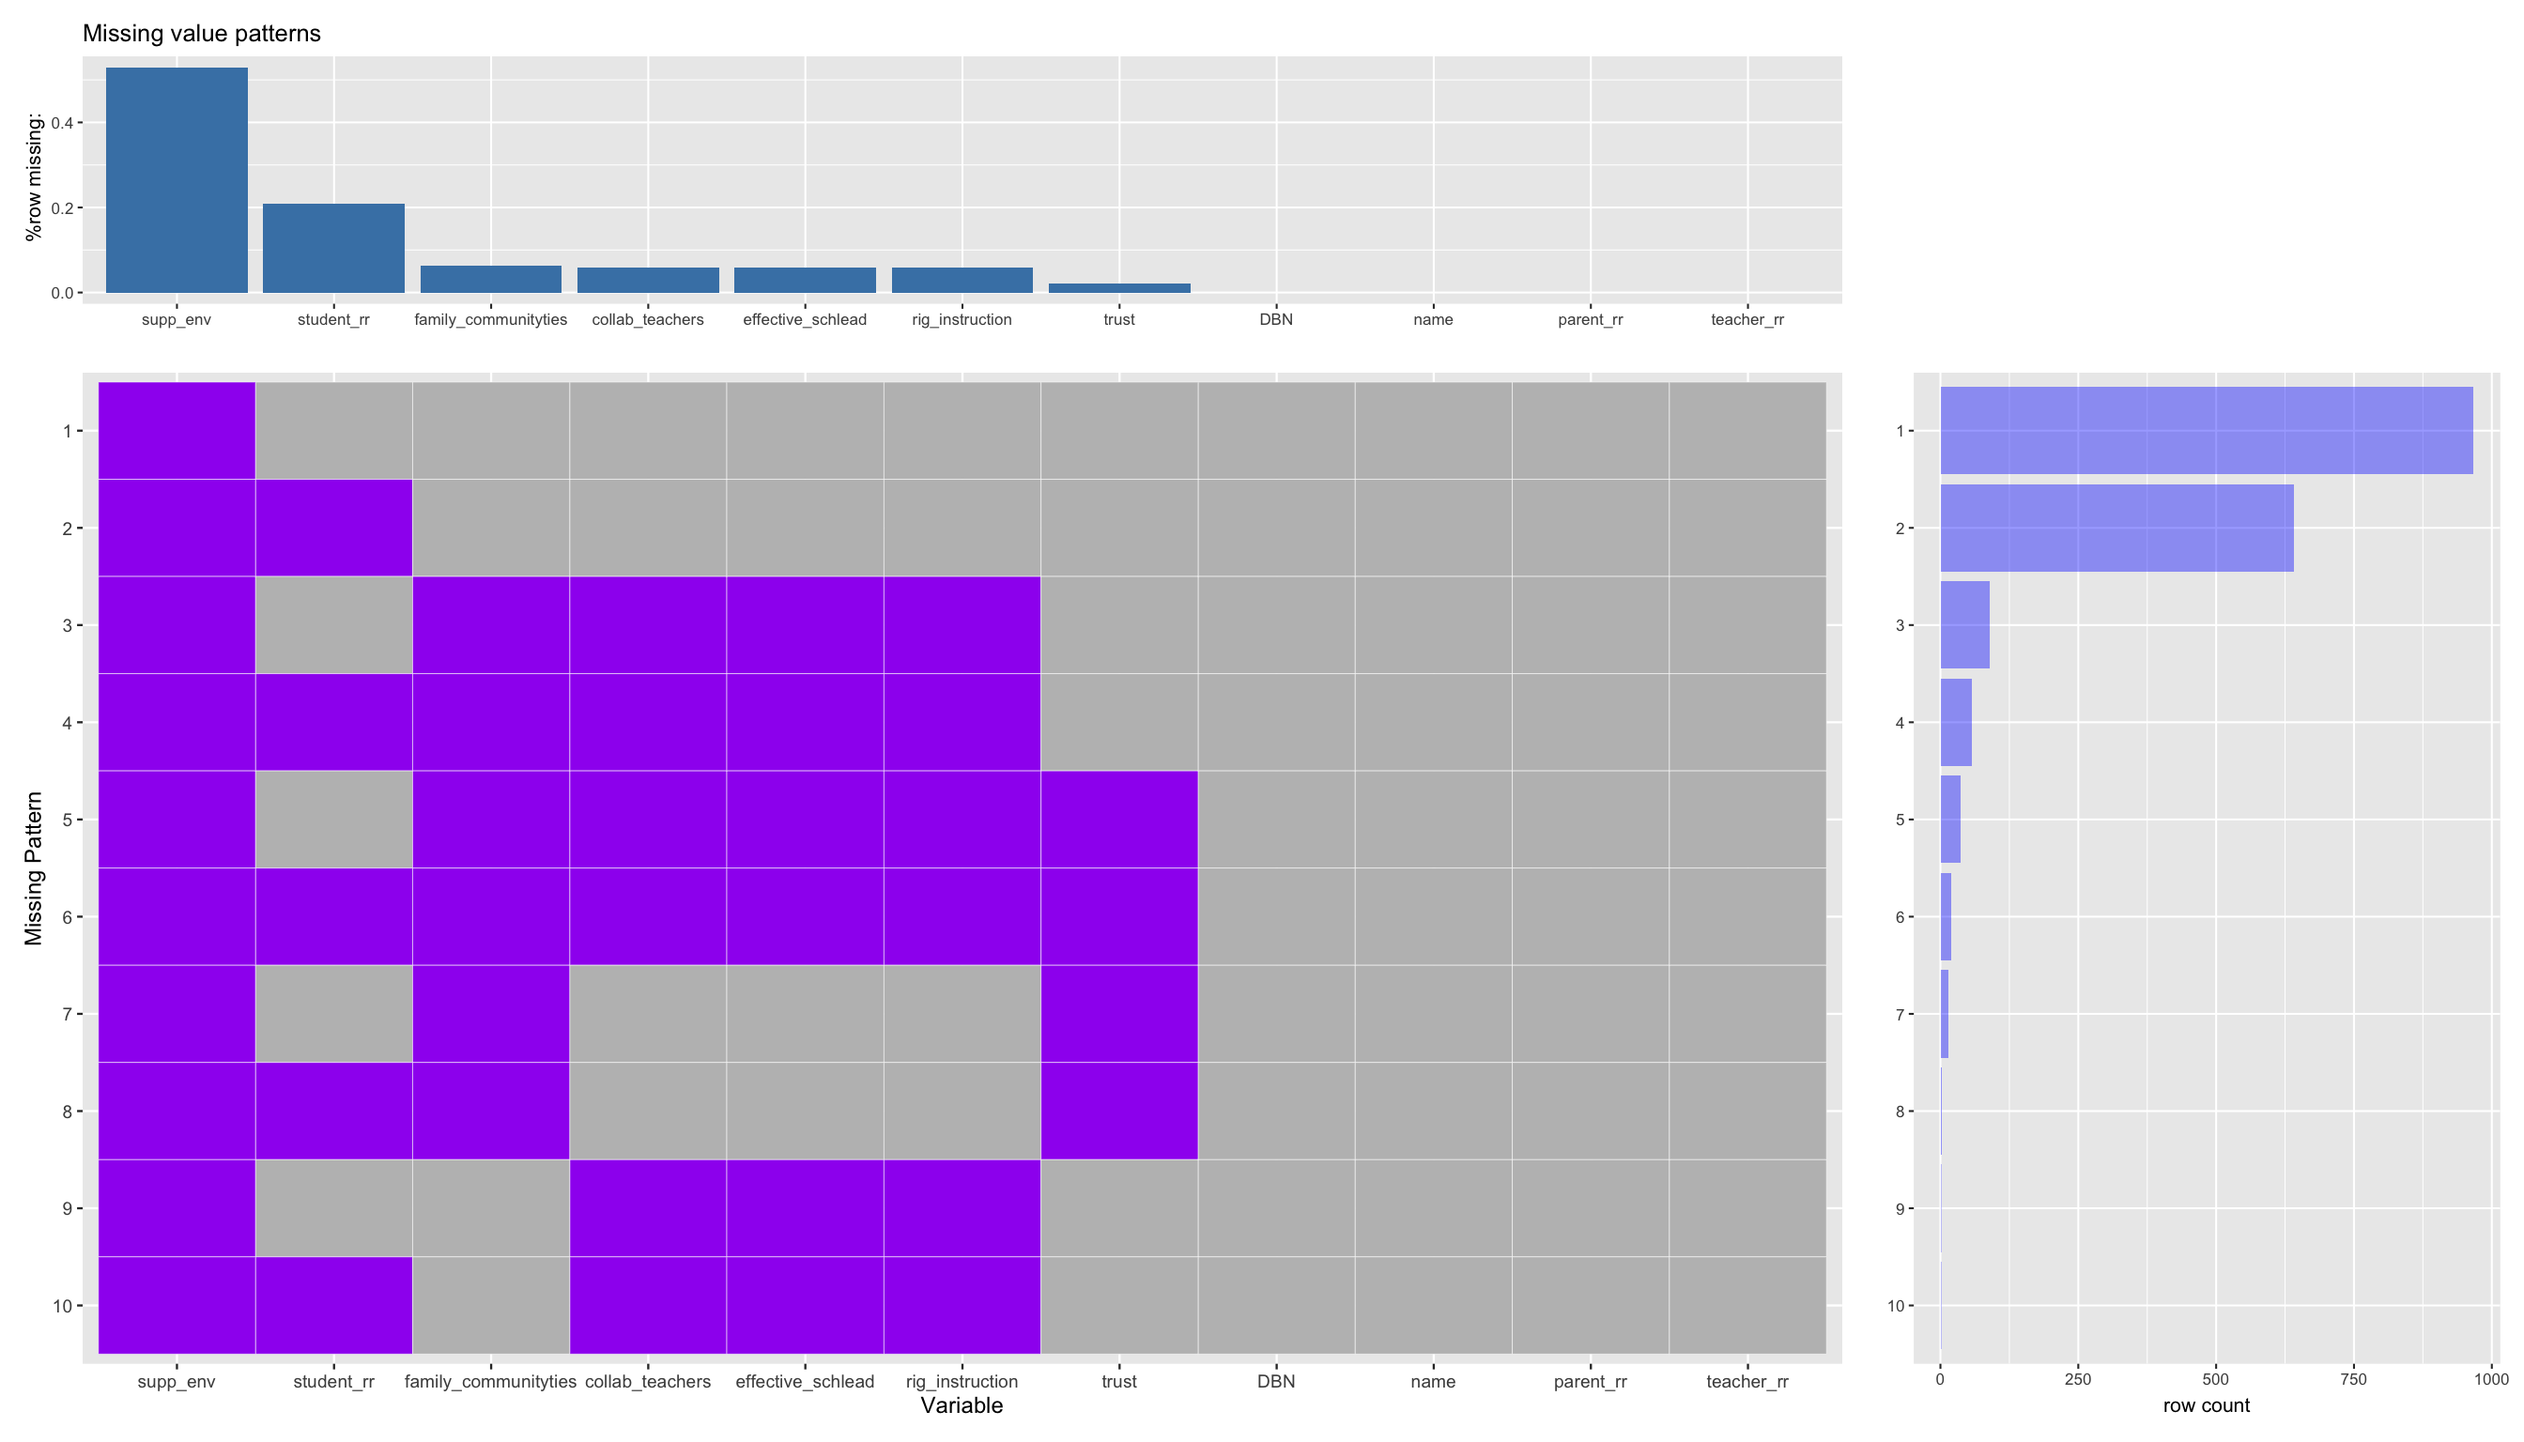
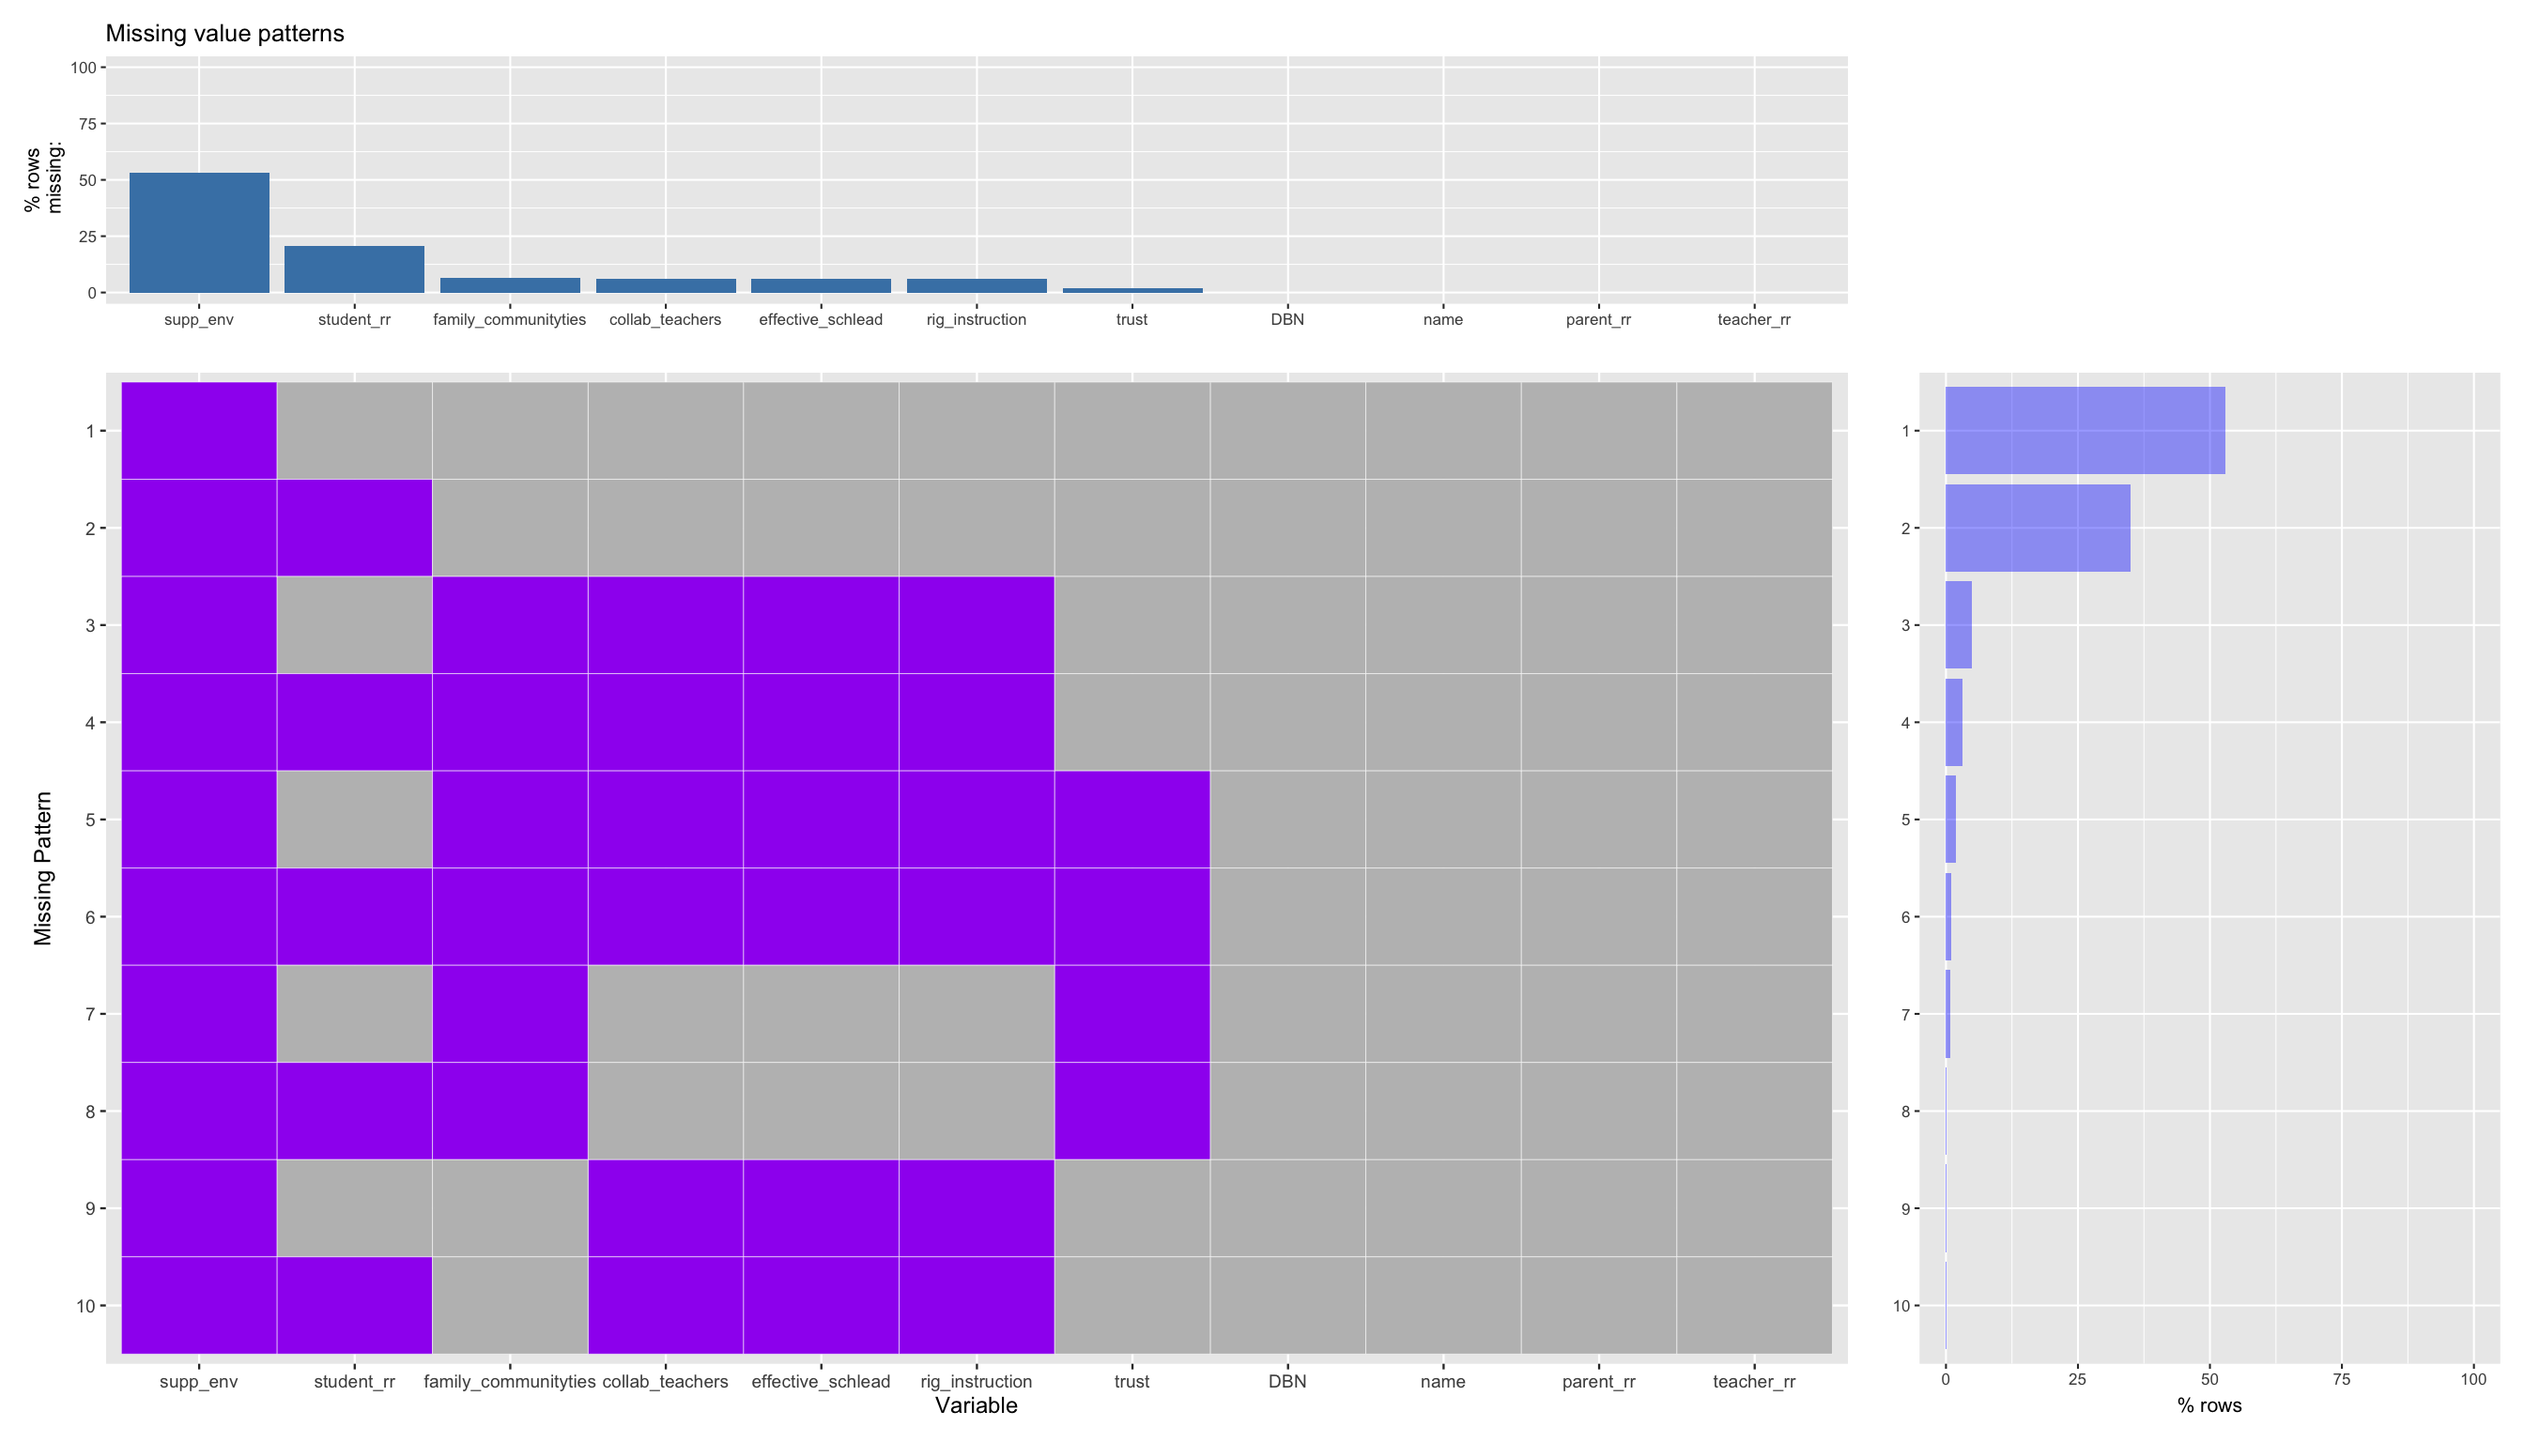
adding percentage

diff --git a/docs/missing-values.html b/docs/missing-values.html
@@ -24,7 +24,7 @@
 <meta name="author" content="Ziheng Ru, Zihan Wang" />
 
 
-<meta name="date" content="2021-11-18" />
+<meta name="date" content="2021-11-19" />
 
   <meta name="viewport" content="width=device-width, initial-scale=1" />
   <meta name="apple-mobile-web-app-capable" content="yes" />
@@ -103,7 +103,7 @@
 <h1><span class="header-section-number">Chapter 4</span> Missing values</h1>
 <p><img src="finalproj_files/figure-html/unnamed-chunk-6-1.png" width="1344" /></p>
 <blockquote>
-<p>In most cases, the dataset is missing the variable ‘Supportive Environment Score’, in fact this variable is completely missing, which indicates this score might not be measured during the year of 2019. There is no complete cases in this dataset as we know that one variable is completely void. However, more than 1/3 of the data only have the ‘Supportive Environment Score’ missing. Besides ‘Supportive Environment Score’, ‘Total Student Response Rate’ has the second most NAs. As we can observe from this graph, these are the two most common cases of the dataset, around 80% to 90% of the data lies in this category. This dataset does not contains complete cases, which means for certain observations all variables do not tontain NAs. However, we can see that the columns ‘DBN’, ‘School Name’, Total Parent Response Rate, and ‘Total Teacher Reponse Rate’ are complete with no missing values.</p>
+<p>In most cases, the dataset is missing the variable ‘Supportive Environment Score’, in fact this variable is completely missing, which indicates this score might not be measured during the year of 2019. There is no complete cases in this dataset as we know that one variable is completely void. However, more than 1/2 of the data only have the ‘Supportive Environment Score’ missing. Besides ‘Supportive Environment Score’, ‘Total Student Response Rate’ has the second most NAs. As we can observe from this graph, these are the two most common cases of the dataset, around 80% to 90% of the data lies in this category. This dataset does not contains complete cases, which means for certain observations all variables do not contain NAs. However, we can see that the columns ‘DBN’, ‘School Name’, ‘Total Parent Response Rate’, and ‘Total Teacher Reponse Rate’ are complete with no missing values.</p>
 </blockquote>
 
 </div>

diff --git a/docs/index.html b/docs/index.html
@@ -24,7 +24,7 @@
 <meta name="author" content="Ziheng Ru, Zihan Wang" />
 
 
-<meta name="date" content="2021-11-18" />
+<meta name="date" content="2021-11-19" />
 
   <meta name="viewport" content="width=device-width, initial-scale=1" />
   <meta name="apple-mobile-web-app-capable" content="yes" />
@@ -102,7 +102,7 @@
 <div id="header">
 <h1 class="title">NYC School Survey</h1>
 <p class="author"><em>Ziheng Ru, Zihan Wang</em></p>
-<p class="date"><em>2021-11-18</em></p>
+<p class="date"><em>2021-11-19</em></p>
 </div>
 <div id="introduction" class="section level1" number="1">
 <h1><span class="header-section-number">Chapter 1</span> Introduction</h1>

diff --git a/docs/404.html b/docs/404.html
@@ -24,7 +24,7 @@
 <meta name="author" content="Ziheng Ru, Zihan Wang" />
 
 
-<meta name="date" content="2021-11-18" />
+<meta name="date" content="2021-11-19" />
 
   <meta name="viewport" content="width=device-width, initial-scale=1" />
   <meta name="apple-mobile-web-app-capable" content="yes" />

diff --git a/docs/conclusion.html b/docs/conclusion.html
@@ -24,7 +24,7 @@
 <meta name="author" content="Ziheng Ru, Zihan Wang" />
 
 
-<meta name="date" content="2021-11-18" />
+<meta name="date" content="2021-11-19" />
 
   <meta name="viewport" content="width=device-width, initial-scale=1" />
   <meta name="apple-mobile-web-app-capable" content="yes" />

diff --git a/docs/data-sources.html b/docs/data-sources.html
@@ -24,7 +24,7 @@
 <meta name="author" content="Ziheng Ru, Zihan Wang" />
 
 
-<meta name="date" content="2021-11-18" />
+<meta name="date" content="2021-11-19" />
 
   <meta name="viewport" content="width=device-width, initial-scale=1" />
   <meta name="apple-mobile-web-app-capable" content="yes" />

diff --git a/docs/data-transformation.html b/docs/data-transformation.html
@@ -24,7 +24,7 @@
 <meta name="author" content="Ziheng Ru, Zihan Wang" />
 
 
-<meta name="date" content="2021-11-18" />
+<meta name="date" content="2021-11-19" />
 
   <meta name="viewport" content="width=device-width, initial-scale=1" />
   <meta name="apple-mobile-web-app-capable" content="yes" />

diff --git a/docs/interactive-component.html b/docs/interactive-component.html
@@ -24,7 +24,7 @@
 <meta name="author" content="Ziheng Ru, Zihan Wang" />
 
 
-<meta name="date" content="2021-11-18" />
+<meta name="date" content="2021-11-19" />
 
   <meta name="viewport" content="width=device-width, initial-scale=1" />
   <meta name="apple-mobile-web-app-capable" content="yes" />

diff --git a/docs/results.html b/docs/results.html
@@ -24,7 +24,7 @@
 <meta name="author" content="Ziheng Ru, Zihan Wang" />
 
 
-<meta name="date" content="2021-11-18" />
+<meta name="date" content="2021-11-19" />
 
   <meta name="viewport" content="width=device-width, initial-scale=1" />
   <meta name="apple-mobile-web-app-capable" content="yes" />
